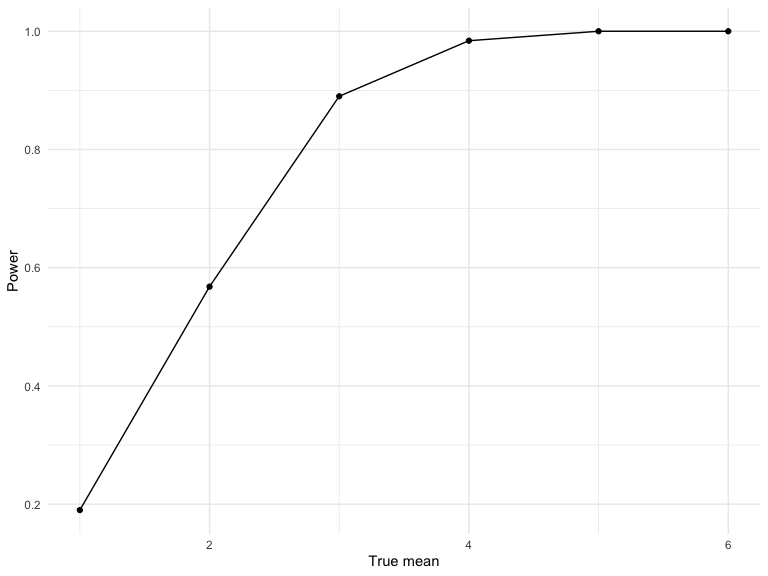
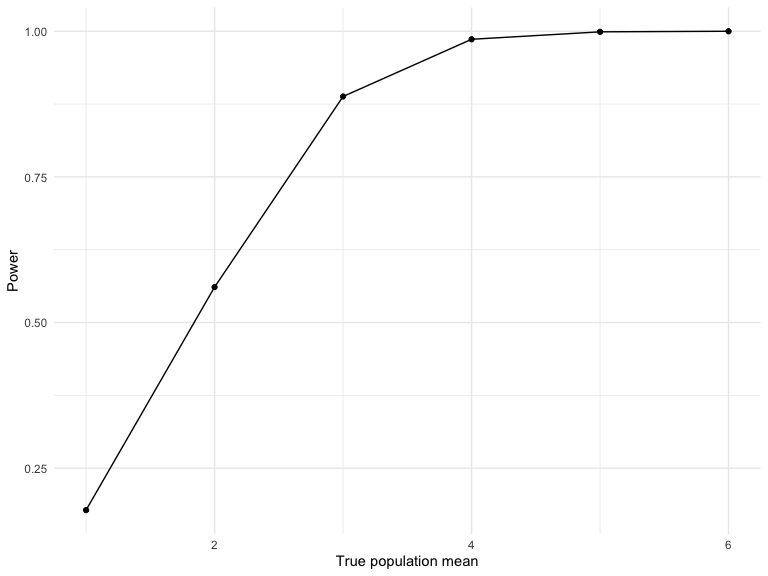
final

diff --git a/p8105_hw5_jhm2176.md b/p8105_hw5_jhm2176.md
@@ -24,147 +24,6 @@ full_df =
   unnest()
 ```
 
-    ## Rows: 1 Columns: 8
-    ## ── Column specification ────────────────────────────────────────────────────────
-    ## Delimiter: ","
-    ## dbl (8): week_1, week_2, week_3, week_4, week_5, week_6, week_7, week_8
-    ## 
-    ## ℹ Use `spec()` to retrieve the full column specification for this data.
-    ## ℹ Specify the column types or set `show_col_types = FALSE` to quiet this message.
-    ## Rows: 1 Columns: 8
-    ## ── Column specification ────────────────────────────────────────────────────────
-    ## Delimiter: ","
-    ## dbl (8): week_1, week_2, week_3, week_4, week_5, week_6, week_7, week_8
-    ## 
-    ## ℹ Use `spec()` to retrieve the full column specification for this data.
-    ## ℹ Specify the column types or set `show_col_types = FALSE` to quiet this message.
-    ## Rows: 1 Columns: 8
-    ## ── Column specification ────────────────────────────────────────────────────────
-    ## Delimiter: ","
-    ## dbl (8): week_1, week_2, week_3, week_4, week_5, week_6, week_7, week_8
-    ## 
-    ## ℹ Use `spec()` to retrieve the full column specification for this data.
-    ## ℹ Specify the column types or set `show_col_types = FALSE` to quiet this message.
-    ## Rows: 1 Columns: 8
-    ## ── Column specification ────────────────────────────────────────────────────────
-    ## Delimiter: ","
-    ## dbl (8): week_1, week_2, week_3, week_4, week_5, week_6, week_7, week_8
-    ## 
-    ## ℹ Use `spec()` to retrieve the full column specification for this data.
-    ## ℹ Specify the column types or set `show_col_types = FALSE` to quiet this message.
-    ## Rows: 1 Columns: 8
-    ## ── Column specification ────────────────────────────────────────────────────────
-    ## Delimiter: ","
-    ## dbl (8): week_1, week_2, week_3, week_4, week_5, week_6, week_7, week_8
-    ## 
-    ## ℹ Use `spec()` to retrieve the full column specification for this data.
-    ## ℹ Specify the column types or set `show_col_types = FALSE` to quiet this message.
-    ## Rows: 1 Columns: 8
-    ## ── Column specification ────────────────────────────────────────────────────────
-    ## Delimiter: ","
-    ## dbl (8): week_1, week_2, week_3, week_4, week_5, week_6, week_7, week_8
-    ## 
-    ## ℹ Use `spec()` to retrieve the full column specification for this data.
-    ## ℹ Specify the column types or set `show_col_types = FALSE` to quiet this message.
-    ## Rows: 1 Columns: 8
-    ## ── Column specification ────────────────────────────────────────────────────────
-    ## Delimiter: ","
-    ## dbl (8): week_1, week_2, week_3, week_4, week_5, week_6, week_7, week_8
-    ## 
-    ## ℹ Use `spec()` to retrieve the full column specification for this data.
-    ## ℹ Specify the column types or set `show_col_types = FALSE` to quiet this message.
-    ## Rows: 1 Columns: 8
-    ## ── Column specification ────────────────────────────────────────────────────────
-    ## Delimiter: ","
-    ## dbl (8): week_1, week_2, week_3, week_4, week_5, week_6, week_7, week_8
-    ## 
-    ## ℹ Use `spec()` to retrieve the full column specification for this data.
-    ## ℹ Specify the column types or set `show_col_types = FALSE` to quiet this message.
-    ## Rows: 1 Columns: 8
-    ## ── Column specification ────────────────────────────────────────────────────────
-    ## Delimiter: ","
-    ## dbl (8): week_1, week_2, week_3, week_4, week_5, week_6, week_7, week_8
-    ## 
-    ## ℹ Use `spec()` to retrieve the full column specification for this data.
-    ## ℹ Specify the column types or set `show_col_types = FALSE` to quiet this message.
-    ## Rows: 1 Columns: 8
-    ## ── Column specification ────────────────────────────────────────────────────────
-    ## Delimiter: ","
-    ## dbl (8): week_1, week_2, week_3, week_4, week_5, week_6, week_7, week_8
-    ## 
-    ## ℹ Use `spec()` to retrieve the full column specification for this data.
-    ## ℹ Specify the column types or set `show_col_types = FALSE` to quiet this message.
-    ## Rows: 1 Columns: 8
-    ## ── Column specification ────────────────────────────────────────────────────────
-    ## Delimiter: ","
-    ## dbl (8): week_1, week_2, week_3, week_4, week_5, week_6, week_7, week_8
-    ## 
-    ## ℹ Use `spec()` to retrieve the full column specification for this data.
-    ## ℹ Specify the column types or set `show_col_types = FALSE` to quiet this message.
-    ## Rows: 1 Columns: 8
-    ## ── Column specification ────────────────────────────────────────────────────────
-    ## Delimiter: ","
-    ## dbl (8): week_1, week_2, week_3, week_4, week_5, week_6, week_7, week_8
-    ## 
-    ## ℹ Use `spec()` to retrieve the full column specification for this data.
-    ## ℹ Specify the column types or set `show_col_types = FALSE` to quiet this message.
-    ## Rows: 1 Columns: 8
-    ## ── Column specification ────────────────────────────────────────────────────────
-    ## Delimiter: ","
-    ## dbl (8): week_1, week_2, week_3, week_4, week_5, week_6, week_7, week_8
-    ## 
-    ## ℹ Use `spec()` to retrieve the full column specification for this data.
-    ## ℹ Specify the column types or set `show_col_types = FALSE` to quiet this message.
-    ## Rows: 1 Columns: 8
-    ## ── Column specification ────────────────────────────────────────────────────────
-    ## Delimiter: ","
-    ## dbl (8): week_1, week_2, week_3, week_4, week_5, week_6, week_7, week_8
-    ## 
-    ## ℹ Use `spec()` to retrieve the full column specification for this data.
-    ## ℹ Specify the column types or set `show_col_types = FALSE` to quiet this message.
-    ## Rows: 1 Columns: 8
-    ## ── Column specification ────────────────────────────────────────────────────────
-    ## Delimiter: ","
-    ## dbl (8): week_1, week_2, week_3, week_4, week_5, week_6, week_7, week_8
-    ## 
-    ## ℹ Use `spec()` to retrieve the full column specification for this data.
-    ## ℹ Specify the column types or set `show_col_types = FALSE` to quiet this message.
-    ## Rows: 1 Columns: 8
-    ## ── Column specification ────────────────────────────────────────────────────────
-    ## Delimiter: ","
-    ## dbl (8): week_1, week_2, week_3, week_4, week_5, week_6, week_7, week_8
-    ## 
-    ## ℹ Use `spec()` to retrieve the full column specification for this data.
-    ## ℹ Specify the column types or set `show_col_types = FALSE` to quiet this message.
-    ## Rows: 1 Columns: 8
-    ## ── Column specification ────────────────────────────────────────────────────────
-    ## Delimiter: ","
-    ## dbl (8): week_1, week_2, week_3, week_4, week_5, week_6, week_7, week_8
-    ## 
-    ## ℹ Use `spec()` to retrieve the full column specification for this data.
-    ## ℹ Specify the column types or set `show_col_types = FALSE` to quiet this message.
-    ## Rows: 1 Columns: 8
-    ## ── Column specification ────────────────────────────────────────────────────────
-    ## Delimiter: ","
-    ## dbl (8): week_1, week_2, week_3, week_4, week_5, week_6, week_7, week_8
-    ## 
-    ## ℹ Use `spec()` to retrieve the full column specification for this data.
-    ## ℹ Specify the column types or set `show_col_types = FALSE` to quiet this message.
-    ## Rows: 1 Columns: 8
-    ## ── Column specification ────────────────────────────────────────────────────────
-    ## Delimiter: ","
-    ## dbl (8): week_1, week_2, week_3, week_4, week_5, week_6, week_7, week_8
-    ## 
-    ## ℹ Use `spec()` to retrieve the full column specification for this data.
-    ## ℹ Specify the column types or set `show_col_types = FALSE` to quiet this message.
-    ## Rows: 1 Columns: 8
-    ## ── Column specification ────────────────────────────────────────────────────────
-    ## Delimiter: ","
-    ## dbl (8): week_1, week_2, week_3, week_4, week_5, week_6, week_7, week_8
-    ## 
-    ## ℹ Use `spec()` to retrieve the full column specification for this data.
-    ## ℹ Specify the column types or set `show_col_types = FALSE` to quiet this message.
-
 The code chunk below tides the data using string manipulations on the
 file, converting from wide to long, and selecting relevant variables.
 
@@ -258,9 +117,9 @@ homicides =
 
 Unsolved homicides are defined as homicides for which the disposition is
 “Closed without arrest” or “Open/No arrest”. Using the new variable
-city_state, this code uses `group_by` and `summarize` to summarize
-within cities and obtain the total number of homicides and the number of
-unsolved homicides in each location.
+city_state, the following code uses `group_by` and `summarize` to
+summarize within cities and obtain the total number of homicides and the
+number of unsolved homicides in each location.
 
 ``` r
 city_homicides =
@@ -273,8 +132,8 @@ city_homicides =
 Here, I will focus on the city of Baltimore, MD. The following code will
 use the `prop.test` function to estimate the proportion of homicides
 that are unsolved, save the output of `prop.test` as an R object, apply
-the `broom::tidy` to this object, and pull the estimated proportion and
-confidence intervals from the resulting tidy dataframe.
+the `broom::tidy` to this object, and `unnest` to pull the estimated
+proportion and confidence intervals from the resulting tidy dataframe.
 
 ``` r
 balt_test =
@@ -354,15 +213,10 @@ depends on several factors, including: the sample size; the effect size;
 and the error variance. In this problem, I will conduct a simulation to
 explore power in a one-sample t-test.
 
-First, I will generate 5000 datasets from the model x ∼ Normal \[ μ , σ
-\] and save the mean estimates and p-values ( H : μ = 0 at α = 0.05 )
-for each. I will fix n = 30, σ = 5, and set μ = 0. I will name μ as
-“s_mu” so as not to be confused with the `t.test` function input “mu”.
-
-The following code creates a function to simulate data from a normal
-distribution with the given sample size, mean, and standard deviation
-values and conducts a one-sample t-test for each, with the null
-hypothesis H : μ = 0 at α = 0.05.
+First, I will write a function `sim_mean_p` to simulate data from a
+normal distribution with a sample size of 30, mean as indicated, and
+standard deviation of 5. This code will also conduct a one-sample t-test
+for each dataset, with the null hypothesis H : μ = 0 at α = 0.05.
 
 ``` r
 sim_mean_p = function(n = 30, s_mu, sigma = 5) {
@@ -377,26 +231,26 @@ sim_mean_p = function(n = 30, s_mu, sigma = 5) {
 }
 ```
 
-This code generates 5000 datasets given μ = 0, maps my function
-`sim_mean_p` on each dataset, and saves the mean estimate and p-value
-for each. The resulting data frame “sim_df_0” contains estimates and
-p-values for each of these datasets.
+This code generates 5000 datasets from the model x ∼ Normal \[ μ , σ \]
+with μ = 0, maps my function `sim_mean_p` on each dataset, and saves the
+mean estimate and p-value for each. The resulting data frame
+**sim_df_0** contains estimates and p-values for each of these datasets.
 
 ``` r
 sim_df_0 = 
-  rerun(500, sim_mean_p(s_mu = 0)) %>% #replace with n=5000
+  rerun(5000, sim_mean_p(s_mu = 0)) %>%
   bind_rows() %>% 
   select(estimate, p.value)
 ```
 
 The following code repeats the above for μ = {1,2,3,4,5,6} and saves all
-estimates and p-values to the resulting data frame “sim_df_2.”
+estimates and p-values to the resulting data frame **sim_df_1**.
 
 ``` r
 sim_df_1 = 
   tibble(s_mu = c(1:6)) %>% 
   mutate(
-    output_lists = map(.x = s_mu, ~rerun(500, sim_mean_p(s_mu = .x))), #replace with 5000
+    output_lists = map(.x = s_mu, ~rerun(5000, sim_mean_p(s_mu = .x))),
     estimate_dfs = map(output_lists, bind_rows)) %>% 
   select(-output_lists) %>% 
   unnest(estimate_dfs) %>%
@@ -407,7 +261,7 @@ sim_df_1 =
 
 The following code creates a plot showing the proportion of times the
 null was rejected (the power of the test) on the y axis and the true
-value of μ on the x axis.
+value of μ on the x axis for μ = {1,2,3,4,5,6}.
 
 ``` r
 power_df = 
@@ -416,7 +270,7 @@ power_df =
   group_by(s_mu, decision) %>%
   summarize(count = n()) %>%
   pivot_wider(names_from = decision, values_from = count) %>%
-  mutate(power = reject / 500)
+  mutate(power = reject / 5000)
 ```
 
     ## `summarise()` has grouped output by 's_mu'. You can override using the
@@ -427,12 +281,12 @@ power_df %>%
   ggplot(aes(x = s_mu, y = power)) + 
   geom_point() + geom_line() +
   labs(
-    x = "True mean",
+    x = "True population mean",
     y = "Power")
 ```
 
 <img src="p8105_hw5_jhm2176_files/figure-gfm/unnamed-chunk-13-1.png" width="90%" />
-**Description:** This power curve shows a positive association between
+**Description** : This power curve shows a positive association between
 effect size and power. As the effect size – the extent of the departure
 from the null (μ=0) – increases, power increases. In other words, as μ
 increases from 0, so does our power. When power reaches 1.0 (μ=5 in our
@@ -441,7 +295,7 @@ plot), the curve flattens since 1 is the maximum value for power.
 This next code chunk creates a plot showing i) the average estimate of μ̂
 on the y axis and the true value of μ on the x axis and ii) the average
 estimate of μ̂ on the y axis and the true value of μ on the x axis only
-for samples for which the null was rejected .
+for samples for which the null was rejected.
 
 ``` r
 plot_i =
@@ -470,12 +324,9 @@ plot_iii %>%
 
 <img src="p8105_hw5_jhm2176_files/figure-gfm/unnamed-chunk-14-1.png" width="90%" />
 
-**Is the sample average of μ̂ across tests for which the null is rejected
-approximately equal to the true value of μ? Why or why not?**
-
-This plot shows that the sample average of μ̂across tests for which the
-null is rejected is only approximately equal to the true value of μ when
-the true μ is greater than 3. As the true population mean increases, the
-sample average across tests for which the null is rejected gets closer
-to the true population mean. This is because power increases with effect
-size.
+This plot suggests that the sample average of μ̂across tests for which
+the null is rejected is only approximately equal to the true value of μ
+when the true μ is greater than 3. As the true population mean
+increases, the sample average across tests for which the null is
+rejected gets closer to the true population mean. This is because power
+increases with effect size.
